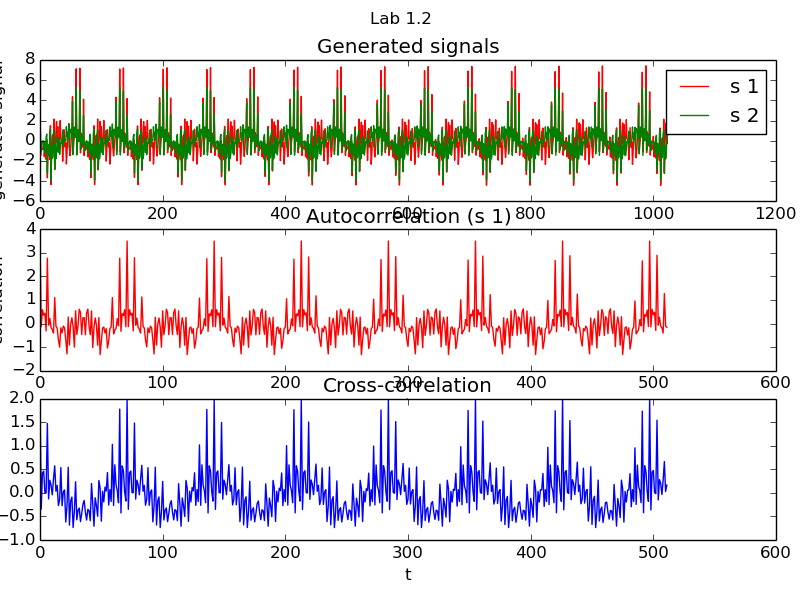
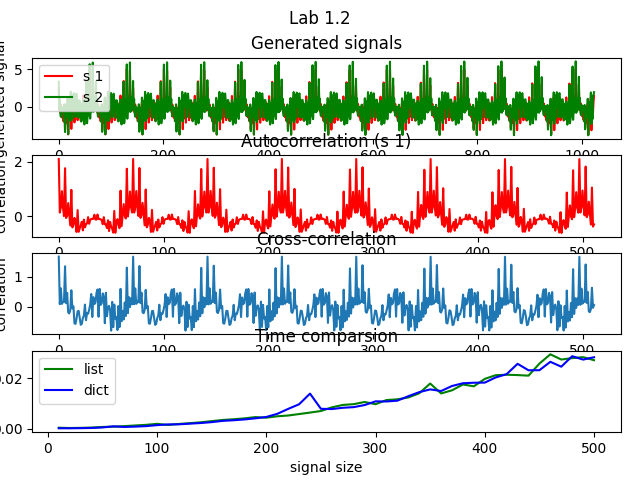
additional task

diff --git a/index.py b/index.py
@@ -3,6 +3,7 @@ import matplotlib.pyplot as plt
 import numpy as np
 import rsg
 import correlation as corr
+import additionalTask as at
 
 n = 12
 W = 2400
@@ -11,15 +12,17 @@ time = range(N)
 x = rsg.getRandomSignal(n, W, N)
 y = rsg.getRandomSignal(n, W, N)
 
+list_N, list_T, list_avg = at.getAvgTime(50, n, W)
+dict_N, dict_T, dict_avg = at.getAvgTime(50, n, W, True)
+
+print('time for list - '+ str(list_avg) +', time for dict - ' + str(dict_avg))
+
 autocorrelation = corr.selfcorrelation(x)
 correlation = corr.correlation(x, y)
 
-print(autocorrelation)
-print(correlation)
+corrR = list(range(int(N / 2)))
 
-corrR = list(range(N / 2))
-
-fig, (ax1, ax2, ax3) = plt.subplots(3, 1)
+fig, (ax1, ax2, ax3, ax4) = plt.subplots(4, 1)
 plt.subplots_adjust(left=0.05, bottom=0.1, right=0.97, wspace=0.1)
 fig.suptitle('Lab 1.2')
 
@@ -36,6 +39,12 @@ ax2.set(xlabel='t', ylabel='correlation')
 ax3.plot(corrR, correlation)
 ax3.set_title('Cross-correlation')
 ax3.set(xlabel='t', ylabel='correlation')
+
+ax4.plot(list_N, list_T, color='g', label='list')
+ax4.plot(dict_N, dict_T, color='b', label='dict')
+ax4.set_title('Time comparsion')
+ax4.set(xlabel='signal size', ylabel='time')
+ax4.legend()
 
 fig.savefig("lab1.png")
 

diff --git a/correlation.py b/correlation.py
@@ -4,21 +4,34 @@ def selfcorrelation(x):
   N = len(x)
   Mx = np.mean(x)
   correlation = []
-  for tau in range(N / 2):
+  for tau in range(int(N / 2)):
     r = 0
-    for time in range(N / 2):
+    for time in range(int(N / 2)):
       r += (x[time] - Mx) * (x[time + tau] - Mx)
-    correlation.append(r / ((N / 2) - 1))
+    correlation.append(r / (int(N / 2) - 1))
   return correlation
 
-def correlation(x, y = []):
+def correlation(x, y):
   N = len(x)
   Mx = np.mean(x)
   My = np.mean(y)
   correlation = []
-  for tau in range(N / 2):
+  for tau in range(int(N / 2)):
     r = 0
-    for time in range(N / 2):
+    for time in range(int(N / 2)):
       r += (x[time] - Mx) * (y[time + tau] - My)
-    correlation.append(r / ((N / 2) - 1))
+    correlation.append(r / (int(N / 2) - 1))
+  return correlation
+
+
+def correlation_dict(x, y):
+  N = len(x)
+  Mx = np.mean(x)
+  My = np.mean(y)
+  correlation = dict()
+  for tau in range(int(N / 2)):
+    r = 0
+    for time in range(int(N / 2)):
+      r += (x[time] - Mx) * (y[time + tau] - My)
+    correlation[tau] = (r / ((N / 2) - 1))
   return correlation

diff --git a/additionalTask.py b/additionalTask.py
@@ -1,0 +1,19 @@
+import time
+import rsg
+import correlation as c
+
+def getAvgTime(delta, n, W, d_type = False):
+  f = c.correlation if (d_type) else c.correlation_dict
+  t = []
+  N = []
+  for i in range(delta):
+    amount = int(10 * (i + 1))
+    N.append(amount)
+    x = rsg.getRandomSignal(n, W, amount)
+    y = rsg.getRandomSignal(n, W, amount)
+    start = time.perf_counter()
+    f(x, y)
+    stop = time.perf_counter()
+    t.append(stop - start)
+  average = sum(t)/delta
+  return N, t, average
